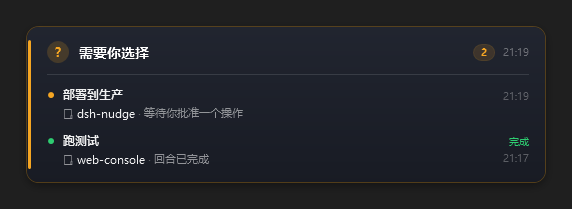
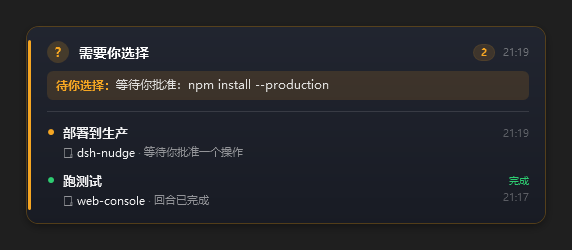
feat: 卡片改成任务名最大、成败原因第二、项目第三，解决看不清是哪个任务的问题

diff --git a/lib/index.js b/lib/index.js
@@ -57,18 +57,29 @@ function tintOf(kind) {
  * @param {object} item 提醒条目
  * @returns {{headline: string, tint: string, context: string}} 主角行、底色、说明行
  */
+const VERDICT_LABEL = { failed: "失败", needs_choice: "待你选择", completed: "完成" };
+
+/**
+ * 一屏之内先回答"哪个任务/项目"，再回答"成没成、为什么"。
+ * 所以 headline 永远是任务名（缺失才退到错误摘要），
+ * 成败与原因走第二行，项目走第三行。
+ */
 function focusOf(item) {
 	const kind = item.kind;
 	const detail = condenseText(item.detail);
 	const title = condenseText(item.title);
-	let headline = "";
-	if (kind === "failed") headline = detail === "" ? "回合异常结束" : detail;
-	else if (kind === "needs_choice") headline = detail === "" ? "等待你确认" : detail;
-	else headline = detail === "" || detail === "回合已完成" ? title : detail;
-	const meta = [];
-	if (typeof item.project === "string" && item.project !== "") meta.push(item.project);
-	if (title !== "" && title !== headline) meta.push(title);
-	return { headline, tint: tintOf(kind), context: meta.join(" · ") };
+	const project = condenseText(item.project);
+	let headline = title;
+	if (headline === "") headline = detail === "" ? (project === "" ? "未命名会话" : project) : detail;
+	const redundant = detail === "" || detail === "回合已完成";
+	const verdictText = kind === "completed" && redundant ? "" : detail;
+	return {
+		headline,
+		tint: tintOf(kind),
+		verdictKind: VERDICT_LABEL[kind] ?? "",
+		verdictText,
+		context: project
+	};
 }
 
 /** 默认配置；实际配置来自 cordis.patch.yml，缺失字段落回这里。 */
@@ -309,6 +320,8 @@ export class PopupRunner {
 				: [],
 			headline: focus.headline,
 			headlineTint: focus.tint,
+			verdictKind: focus.verdictKind,
+			verdictText: focus.verdictText,
 			context: focus.context,
 			// 单条卡片不再列清单，点击时复制这段扁平摘要。只取前 20 条：
 			// 摘要要随命令行参数一起传给 helper，不能无上限增长。

diff --git a/VERIFY.md b/VERIFY.md
@@ -52,15 +52,15 @@ ALL PASS (23 checks)
 
 ## 2.6 多条提醒的可读性
 
-- 多条提醒不再折叠成一行：每条两行，第一行是任务名（12px SemiBold），第二行是「📁 项目 · 明细」（10.5px）；右侧竖排「完成 / 待批准 / 失败」短标签（颜色跟随该条）+ 时间。横排标签+时间在 260 宽时会把任务名挤到卡片边缘，所以改竖排。
-- 单条提醒：任务名（或精简后的错误）做 13px 主角行，项目单独一行（11px，`#8AFFFFFF`）。
+- 阅读顺序按「先是谁、再怎么样、最后在哪」排：**任务名最大（单条 15.5px / 多条 13px SemiBold）**，第二行是成败与原因（11.5px，`失败：…` / `待你选择：…` / `完成`），第三行才是项目（11px，`#8AFFFFFF`）。之前把错误摘要当主角行，等于先告诉你"错在哪"却不说是哪个任务，已改。
+- 单条提醒的状态行放在淡色底板上（失败 `#24E74C3C`、待批准 `#24F5A623`），让"为什么"读起来像状态而不是正文；失败/待批准时 kind 词用各自 accent 色，冒号只在后面真跟着原因时才加。
 - 不加滚动条：卡片按内容长高；窗口 `MinHeight` 每次缩放都按新宽度重算，把窗口拖矮时不会裁掉内容。
 - 明细最多折叠到 6 行（`MaxHeight = 6 × LineHeight`，切在行边界上），窄卡片不会被超长报错撑爆。
 - 卡片外框跟随最严重的 kind 染色：failed `#4DE74C3C`、needs_choice `#45F5A623`、其余 `#2BFFFFFF`，扫一眼就知道出事了。
 - 不打扰：卡片是 `WS_EX_NOACTIVATE | WS_EX_TOOLWINDOW` 窗口，永不被激活、不进 Alt+Tab；纯点击不进入系统拖动循环（位移 >4px 才算拖动）；弹出后 320ms 内的点击被忽略；移进卡片会重置停留计时。
 - 定位：`MonitorFromWindow`（DSH 主窗口）→ `MonitorFromPoint`（光标）→ `SystemParameters.WorkArea` 三级退化，取 `rcWork` 右下角内缩 `margin`；实测本机 2560×1440、任务栏 48px、卡片 412×154 → `left=2132`、`top=1222`（=1392−154−16），与旧主屏逻辑在同一屏上结果一致。
 - 右键只关闭：不调用 `Focus-Ds`、不写剪贴板，也不激活窗口（`WS_EX_NOACTIVATE`）。
-- 快照校验：`screenshots/multi.png` 436×343（4 条 / 3 个项目，逐条可见 kind、项目、任务）、`screenshots/single.png` 436×209（单条：错误 + 项目 · 任务）。
+- 快照校验：`screenshots/multi.png` 436×337（4 条 / 3 个项目）、`screenshots/single.png` 436×234（失败单条）、`screenshots/single-choice.png` 436×234（待批准单条）、`screenshots/single-done.png` 436×205（完成单条）。像素实测的纵向文字带：头部 12px → 任务名 16px → 状态 12px → 原因 9-11px → 项目 10-11px，最大字号确实落在任务名上。
 
 ## 3. 卡片图内容自证（纯像素，不需要屏幕）
 

diff --git a/README.md b/README.md
@@ -104,7 +104,7 @@ powershell -NoProfile -ExecutionPolicy Bypass -File .\scripts\uninstall.ps1
 
 - **可拖动、可缩放**：按住卡片拖动即可换位置；把鼠标移到四边或四角（8px 感应区，光标会变成缩放箭头）拖动即可改大小，最小 300×118。卡片是透明的无边框窗口，所以缩放走的是 `ReleaseCapture` + `WM_NCLBUTTONDOWN`，交给系统原生缩放循环处理。
 - **内容自适应**：卡片宽度不再写死，文字、清单、项目标签都按当前可用宽度重新换行排版；拖大不会留白，拖小自动折行。
-- **每条都写清项目和任务**：多条提醒时逐条列出，每条第一行是任务名，第二行是「📁 项目 · 明细」，右侧竖排「完成 / 待批准 / 失败 + 时间」。单条时任务名做主标题、项目单独一行。不加滚动条，卡片按内容长高，窗口最小高度也跟随内容，拖不小到看不清。
+- **一眼看清是哪个任务**：字最大的永远是任务名，其次才是一句话的成败原因（`失败：…` / `待你选择：…` / `完成`），最后才是项目名。多条提醒逐条两行排版，右侧竖排「完成 / 待批准 / 失败 + 时间」。不加滚动条，卡片按内容长高，窗口最小高度也跟随内容。
 - **不打扰**：卡片不抢焦点、不抢鼠标——它是 `WS_EX_NOACTIVATE` 窗口，永不会被激活；只在指针真的移动超过 4px 时才开始拖动，纯点击不会进入系统拖动循环；弹出后 320ms 内落下的点击会被忽略。失败时整张卡的外框会泛红，扫一眼就知道出了事。
 - **跟着你走**：卡片出现在 DSH 窗口所在的那块屏幕（取不到就退到光标所在屏，再退到主屏）；右键只关掉卡片，不切焦点、不写剪贴板。
 - **自动消失**：`staySeconds` 秒后淡出（到点关闭，无残留进程）。
